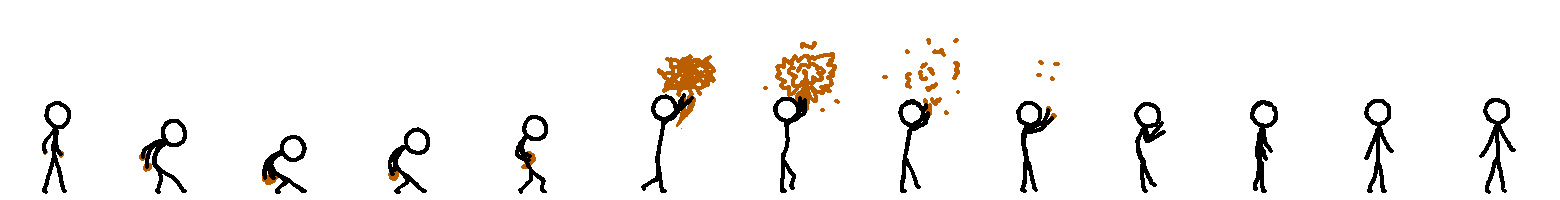
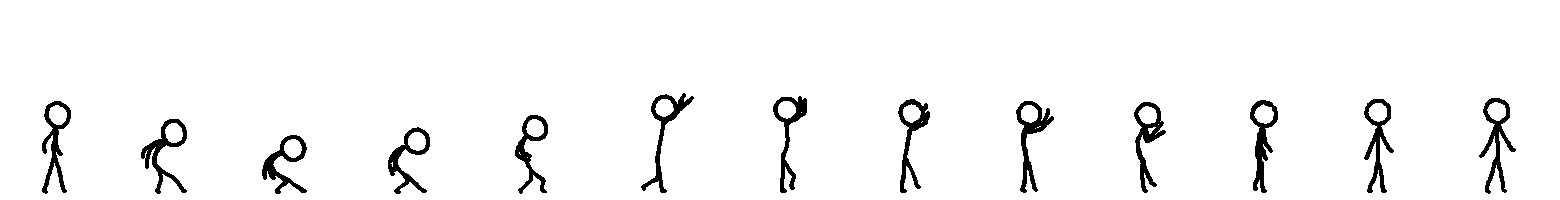
Load effects separately, they are colored based on the move's type

diff --git a/src/LibCore/Resources/Assets/FrameData.cpp b/src/LibCore/Resources/Assets/FrameData.cpp
@@ -59,6 +59,7 @@ namespace SpiralOfFate
 		my_assert2(data["sprite"].is_string(), "Invalid json");
 		this->spritePath = data["sprite"];
 		this->textureHandle = game->textureMgr.load(folder + "/" + this->spritePath, palette, &textureSize);
+		this->textureHandleEffects = game->textureMgr.load(folder + "/effects/" + this->spritePath, palette, &textureSize);
 		if (data.contains("sound")) {
 			my_assert2(data["sound"].is_string(), "Invalid json");
 			this->soundPath = data["sound"];
@@ -374,6 +375,7 @@ namespace SpiralOfFate
 		this->priority = other.priority;
 		this->spritePath = other.spritePath;
 		this->textureHandle = other.textureHandle;
+		this->textureHandleEffects = other.textureHandleEffects;
 		this->soundPath = other.soundPath;
 		this->soundHandle = other.soundHandle;
 		this->hitSoundPath = other.hitSoundPath;
@@ -444,6 +446,7 @@ namespace SpiralOfFate
 		this->priority = other.priority;
 		this->spritePath = other.spritePath;
 		this->textureHandle = other.textureHandle;
+		this->textureHandleEffects = other.textureHandleEffects;
 		this->soundPath = other.soundPath;
 		this->soundHandle = other.soundHandle;
 		this->hitSoundPath = other.hitSoundPath;
@@ -502,6 +505,7 @@ namespace SpiralOfFate
 		my_assert(!this->_slave);
 		game->textureMgr.remove(this->textureHandle);
 		this->textureHandle = game->textureMgr.load(folder + "/" + this->spritePath, palette);
+		this->textureHandleEffects = game->textureMgr.load(folder + "/effects/" + this->spritePath, palette);
 	}
 
 	void FrameData::reloadSound()
@@ -749,8 +753,10 @@ namespace SpiralOfFate
 		unsigned i = 0;
 
 		this->spritePath = std::string(dat->texturePath, strnlen(dat->texturePath, sizeof(dat->texturePath)));
-		this->textureHandle = game->textureMgr.load(__folder + "/" + this->spritePath, __palette);
 		game->textureMgr.remove(this->textureHandle);
+		game->textureMgr.remove(this->textureHandleEffects);
+		this->textureHandle = game->textureMgr.load(__folder + "/" + this->spritePath, __palette);
+		this->textureHandleEffects = game->textureMgr.load(__folder + "/effects/" + this->spritePath, __palette);
 		this->particleGenerator = dat->particleGenerator;
 		this->blockStun = dat->blockStun;
 		this->wrongBlockStun = dat->wrongBlockStun;

diff --git a/src/LibCore/Objects/Object.cpp b/src/LibCore/Objects/Object.cpp
@@ -107,20 +107,36 @@ namespace SpiralOfFate
 	{
 		auto &data = *this->getCurrentFrameData();
 		auto realPos = this->_position;
+		auto baseTint = this->_sprite.getColor();
 		auto tint = this->_sprite.getColor();
+		int a;
 
 		if (this->_fadeDir)
-			tint.a = this->_fadeTimer * 255 / this->_fadeTimerMax;
+			a = this->_fadeTimer * 255 / this->_fadeTimerMax;
 		else
-			tint.a = (this->_fadeTimerMax - this->_fadeTimer) * 255 / this->_fadeTimerMax;
+			a = (this->_fadeTimerMax - this->_fadeTimer) * 255 / this->_fadeTimerMax;
+		tint.a = a;
 		this->_sprite.setColor(tint);
 		this->_sprite.setOrigin(data.textureBounds.size / 2.f);
 		this->_sprite.setRotation(this->_rotation * 180 / M_PI);
 		this->_sprite.setPosition(spritePos);
 		this->_sprite.setScale(scale);
-		this->_sprite.textureHandle = data.textureHandle;
 		this->_sprite.setTextureRect(data.textureBounds);
+		this->_sprite.textureHandle = data.textureHandle;
 		game->textureMgr.render(this->_sprite);
+		if (data.oFlag.spiritElement == data.oFlag.matterElement && data.oFlag.matterElement == data.oFlag.voidElement)
+			tint = game->typeColors[data.oFlag.spiritElement ? TYPECOLOR_NEUTRAL : TYPECOLOR_NON_TYPED];
+		else if (data.oFlag.spiritElement)
+			tint = game->typeColors[TYPECOLOR_SPIRIT];
+		else if (data.oFlag.matterElement)
+			tint = game->typeColors[TYPECOLOR_MATTER];
+		else if (data.oFlag.voidElement)
+			tint = game->typeColors[TYPECOLOR_VOID];
+		tint.a = a;
+		this->_sprite.setColor(tint);
+		this->_sprite.textureHandle = data.textureHandleEffects;
+		game->textureMgr.render(this->_sprite);
+		this->_sprite.setColor(baseTint);
 
 		realPos.y *= -1;
 		if (!this->showBoxes)

diff --git a/src/LibCore/Objects/Characters/Character.cpp b/src/LibCore/Objects/Characters/Character.cpp
@@ -448,13 +448,13 @@ namespace SpiralOfFate
 	void Character::render() const
 	{
 		if (this->_neutralEffectTimer)
-			this->_sprite.setColor(sf::Color{0xA0, 0xA0, 0xA0});
+			this->_sprite.setColor(game->typeColors[TYPECOLOR_NEUTRAL]);
 		else if (this->_spiritEffectTimer)
-			this->_sprite.setColor(sf::Color{51, 204, 204});
+			this->_sprite.setColor(game->typeColors[TYPECOLOR_SPIRIT]);
 		else if (this->_matterEffectTimer)
-			this->_sprite.setColor(sf::Color{187, 94, 0});
+			this->_sprite.setColor(game->typeColors[TYPECOLOR_MATTER]);
 		else if (this->_voidEffectTimer)
-			this->_sprite.setColor(sf::Color{0x80, 0x00, 0x80});
+			this->_sprite.setColor(game->typeColors[TYPECOLOR_VOID]);
 		else
 			this->_sprite.setColor(sf::Color::White);
 
@@ -5019,14 +5019,14 @@ namespace SpiralOfFate
 			this->_renderEffect(pos, this->_matterEffect);
 		else if (this->_voidEffectTimer)
 			this->_renderEffect(pos, this->_voidEffect);
-		if (this->_installMoveStarted) {
+		/*if (this->_installMoveStarted) {
 			if (this->_hasSpiritInstall)
 				this->_renderInstallEffect(this->_spiritEffect);
 			else if (this->_hasMatterInstall)
 				this->_renderInstallEffect(this->_matterEffect);
 			else if (this->_hasVoidInstall)
 				this->_renderInstallEffect(this->_voidEffect);
-		}
+		}*/
 	}
 
 	void Character::_reduceGuard(unsigned int amount, unsigned regenTime, bool canCrush)

diff --git a/src/LibCore/Resources/Game.hpp b/src/LibCore/Resources/Game.hpp
@@ -61,6 +61,14 @@ namespace SpiralOfFate
 		/*  4 */ BASICSOUND_GROUND_SLAM = BASICSOUND_KNOCKDOWN,
 	};
 
+	enum TypeColor {
+		TYPECOLOR_NON_TYPED,
+		TYPECOLOR_NEUTRAL,
+		TYPECOLOR_SPIRIT,
+		TYPECOLOR_MATTER,
+		TYPECOLOR_VOID,
+	};
+
 	struct Game {
 		bool hosting = false;
 		std::random_device random;
@@ -81,6 +89,13 @@ namespace SpiralOfFate
 		std::pair<std::shared_ptr<SpiralOfFate::KeyboardInput>, std::shared_ptr<SpiralOfFate::ControllerInput>> P1;
 		std::pair<std::shared_ptr<SpiralOfFate::KeyboardInput>, std::shared_ptr<SpiralOfFate::ControllerInput>> P2;
 		std::pair<std::shared_ptr<SpiralOfFate::KeyboardInput>, std::shared_ptr<SpiralOfFate::ControllerInput>> menu;
+		std::array<sf::Color, 5> typeColors = {
+			sf::Color{0xA6, 0xA6, 0xA6},
+			sf::Color{0xFF, 0xFF, 0x00},
+			sf::Color{0x33, 0xCC, 0xCC},
+			sf::Color{0xBB, 0x5E, 0x00},
+			sf::Color{0x67, 0x03, 0x3D}
+		};
 	#ifdef HAS_NETWORK
 		std::shared_ptr<class Connection> connection;
 	#endif

diff --git a/src/LibCore/Objects/Characters/Stickman/Stickman.cpp b/src/LibCore/Objects/Characters/Stickman/Stickman.cpp
@@ -178,11 +178,12 @@ namespace SpiralOfFate
 	void Stickman::_renderExtraEffects(const Vector2f &pos) const
 	{
 		Character::_renderExtraEffects(pos);
-		if (this->_hasBuff && this->_installMoveStarted)
-			this->_renderInstallEffect(this->_neutralEffect);
+		//if (this->_hasBuff && this->_installMoveStarted)
+		//	this->_renderInstallEffect(this->_neutralEffect);
 	}
 
 	void Stickman::_computeFrameDataCache()
+
 	{
 		Character::_computeFrameDataCache();
 		if (!this->_hasBuff || !this->_installMoveStarted)

diff --git a/src/LibCore/Resources/Assets/FrameData.hpp b/src/LibCore/Resources/Assets/FrameData.hpp
@@ -176,6 +176,7 @@ namespace SpiralOfFate
 		std::string soundPath;
 		std::string hitSoundPath;
 		unsigned textureHandle = 0;
+		unsigned textureHandleEffects = 0;
 		unsigned soundHandle = 0;
 		unsigned hitSoundHandle = 0;
 		Vector2i offset = {0, 0};
